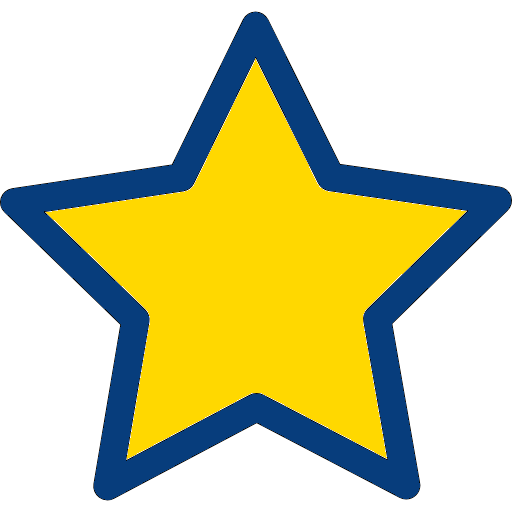
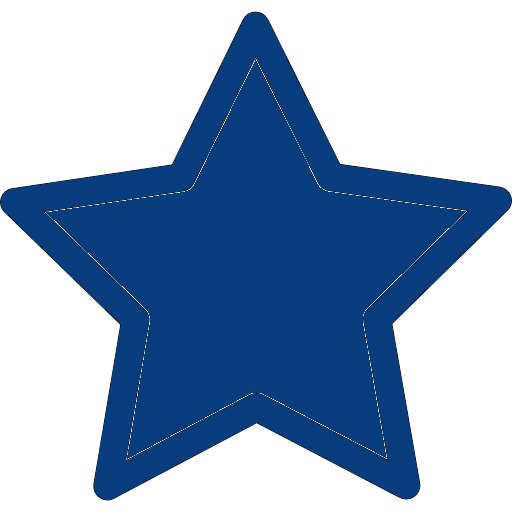
cor da estrela e variavel alteradas em todas as telas finais

Changed region(s): [[0.0938, 0.125, 0.9062, 0.9062]]

diff --git a/src/app/components/levels/two/screen-six-level-two/screen-six-level-two.component.ts b/src/app/components/levels/two/screen-six-level-two/screen-six-level-two.component.ts
@@ -10,8 +10,8 @@ export class ScreenSixLevelTwoComponent implements OnInit {
   resultados: string[] = [];
   acertos: number = 0;
   erros: number = 0;
-  estrelasAmarelas: number = 0;
-  estrelasBrancas: number = 0;
+  estrelasPreenchidas: number = 0;
+  estrelasVazias: number = 0;
   mensagemFinal: string = '';
 
   constructor() { }
@@ -24,33 +24,33 @@ export class ScreenSixLevelTwoComponent implements OnInit {
     this.definirMensagemFinal();
   }
 
-  // Método para calcular as estrelas
+  // Método para calcular as estrelasPreenchidas
   calcularEstrelas(): void {
-    const totalEstrelas = 5; // Total de estrelas a serem exibidas
+    const totalEstrelas = 5; // Total de estrelasPreenchidas a serem exibidas
 
     // Calcula a proporção de acertos e erros
     const proporcaoAcertos = this.acertos / (this.acertos + this.erros);
 
-    // Calcula a quantidade de estrelas amarelas e brancas
-    this.estrelasAmarelas = Math.round(totalEstrelas * proporcaoAcertos);
-    this.estrelasBrancas = totalEstrelas - this.estrelasAmarelas;
+    // Calcula a quantidade de estrelasPreenchidas amarelas e brancas
+    this.estrelasPreenchidas = Math.round(totalEstrelas * proporcaoAcertos);
+    this.estrelasVazias = totalEstrelas - this.estrelasPreenchidas;
   }
 
   definirMensagemFinal(): void {
-    if (this.estrelasAmarelas === 5) {
+    if (this.estrelasPreenchidas === 5) {
       this.mensagemFinal = 'Incrível! Você acertou tudo!';
-    } else if (this.estrelasAmarelas === 4) {
+    } else if (this.estrelasPreenchidas === 4) {
       this.mensagemFinal = 'Muito bom! Quase perfeito!';
-    } else if (this.estrelasAmarelas === 3) {
+    } else if (this.estrelasPreenchidas === 3) {
       this.mensagemFinal = 'Bom trabalho! Continue praticando!';
-    } else if (this.estrelasAmarelas === 2) {
+    } else if (this.estrelasPreenchidas === 2) {
       this.mensagemFinal = 'Você está no caminho certo! Vamos melhorar!';
     } else {
       this.mensagemFinal = 'Tudo é aprendizagem! Tente novamente!';
     }
   }
 
-   // Array de estrelas
+   // Array de estrelasPreenchidas
    getArray(length: number): any[] {
     return new Array(length);
   }

diff --git a/src/app/components/levels/three/screen-eleven-level-three/screen-eleven-level-three.component.ts b/src/app/components/levels/three/screen-eleven-level-three/screen-eleven-level-three.component.ts
@@ -10,8 +10,8 @@ export class ScreenElevenLevelThreeComponent implements OnInit {
   resultados: string[] = [];
   acertos: number = 0;
   erros: number = 0;
-  estrelasAmarelas: number = 0;
-  estrelasBrancas: number = 0;
+  estrelasPreenchidas: number = 0;
+  estrelasVazias: number = 0;
   mensagemFinal: string = '';
 
   constructor() { }
@@ -37,18 +37,18 @@ export class ScreenElevenLevelThreeComponent implements OnInit {
       const proporcaoAcertos = this.acertos / (this.acertos + this.erros);
   
       // Calcula a quantidade de estrelas amarelas e brancas
-      this.estrelasAmarelas = Math.round(totalEstrelas * proporcaoAcertos);
-      this.estrelasBrancas = totalEstrelas - this.estrelasAmarelas;
+      this.estrelasPreenchidas = Math.round(totalEstrelas * proporcaoAcertos);
+      this.estrelasVazias = totalEstrelas - this.estrelasPreenchidas;
     }
   
     definirMensagemFinal(): void {
-      if (this.estrelasAmarelas === 5) {
+      if (this.estrelasPreenchidas === 5) {
         this.mensagemFinal = 'Incrível! Você acertou tudo!';
-      } else if (this.estrelasAmarelas === 4) {
+      } else if (this.estrelasPreenchidas === 4) {
         this.mensagemFinal = 'Muito bom! Quase perfeito!';
-      } else if (this.estrelasAmarelas === 3) {
+      } else if (this.estrelasPreenchidas === 3) {
         this.mensagemFinal = 'Bom trabalho! Continue praticando!';
-      } else if (this.estrelasAmarelas === 2) {
+      } else if (this.estrelasPreenchidas === 2) {
         this.mensagemFinal = 'Você está no caminho certo! Vamos melhorar!';
       } else {
         this.mensagemFinal = 'Tudo é aprendizagem! Tente novamente!';

diff --git a/src/app/components/levels/four/screen-eleven-level-four/screen-eleven-level-four.component.ts b/src/app/components/levels/four/screen-eleven-level-four/screen-eleven-level-four.component.ts
@@ -10,8 +10,8 @@ export class ScreenElevenLevelFourComponent implements OnInit {
   resultados: string[] = [];
   acertos: number = 0;
   erros: number = 0;
-  estrelasAmarelas: number = 0;
-  estrelasBrancas: number = 0;
+  estrelasPreenchidas: number = 0;
+  estrelasVazias: number = 0;
   mensagemFinal: string = '';
 
   constructor() { }
@@ -37,18 +37,18 @@ export class ScreenElevenLevelFourComponent implements OnInit {
       const proporcaoAcertos = this.acertos / (this.acertos + this.erros);
   
       // Calcula a quantidade de estrelas amarelas e brancas
-      this.estrelasAmarelas = Math.round(totalEstrelas * proporcaoAcertos);
-      this.estrelasBrancas = totalEstrelas - this.estrelasAmarelas;
+      this.estrelasPreenchidas = Math.round(totalEstrelas * proporcaoAcertos);
+      this.estrelasVazias = totalEstrelas - this.estrelasPreenchidas;
     }
   
     definirMensagemFinal(): void {
-      if (this.estrelasAmarelas === 5) {
+      if (this.estrelasPreenchidas === 5) {
         this.mensagemFinal = 'Incrível! Você acertou tudo!';
-      } else if (this.estrelasAmarelas === 4) {
+      } else if (this.estrelasPreenchidas === 4) {
         this.mensagemFinal = 'Muito bom! Quase perfeito!';
-      } else if (this.estrelasAmarelas === 3) {
+      } else if (this.estrelasPreenchidas === 3) {
         this.mensagemFinal = 'Bom trabalho! Continue praticando!';
-      } else if (this.estrelasAmarelas === 2) {
+      } else if (this.estrelasPreenchidas === 2) {
         this.mensagemFinal = 'Você está no caminho certo! Vamos melhorar!';
       } else {
         this.mensagemFinal = 'Tudo é aprendizagem! Tente novamente!';

diff --git a/src/app/components/levels/one/screen-thirteen-level-one/screen-thirteen-level-one.component.ts b/src/app/components/levels/one/screen-thirteen-level-one/screen-thirteen-level-one.component.ts
@@ -10,8 +10,8 @@ export class ScreenThirteenLevelOneComponent implements OnInit {
   resultados: string[] = [];
   acertos: number = 0;
   erros: number = 0;
-  estrelasAmarelas: number = 0;
-  estrelasBrancas: number = 0;
+  estrelasPreenchidas: number = 0;
+  estrelasVazias: number = 0;
   mensagemFinal: string = '';
 
   constructor() { }
@@ -32,18 +32,18 @@ export class ScreenThirteenLevelOneComponent implements OnInit {
     const proporcaoAcertos = this.acertos / (this.acertos + this.erros);
 
     // Calcula a quantidade de estrelas amarelas e brancas
-    this.estrelasAmarelas = Math.round(totalEstrelas * proporcaoAcertos);
-    this.estrelasBrancas = totalEstrelas - this.estrelasAmarelas;
+    this.estrelasPreenchidas = Math.round(totalEstrelas * proporcaoAcertos);
+    this.estrelasVazias = totalEstrelas - this.estrelasPreenchidas;
   }
 
   definirMensagemFinal(): void {
-    if (this.estrelasAmarelas === 5) {
+    if (this.estrelasPreenchidas === 5) {
       this.mensagemFinal = 'Incrível! Você acertou tudo!';
-    } else if (this.estrelasAmarelas === 4) {
+    } else if (this.estrelasPreenchidas === 4) {
       this.mensagemFinal = 'Muito bom! Quase perfeito!';
-    } else if (this.estrelasAmarelas === 3) {
+    } else if (this.estrelasPreenchidas === 3) {
       this.mensagemFinal = 'Bom trabalho! Continue praticando!';
-    } else if (this.estrelasAmarelas === 2) {
+    } else if (this.estrelasPreenchidas === 2) {
       this.mensagemFinal = 'Você está no caminho certo! Vamos melhorar!';
     } else {
       this.mensagemFinal = 'Tudo é aprendizagem! Tente novamente!';

diff --git a/src/app/components/levels/four/screen-eleven-level-four/screen-eleven-level-four.component.html b/src/app/components/levels/four/screen-eleven-level-four/screen-eleven-level-four.component.html
@@ -24,12 +24,12 @@
       <div class="stars-container">
 
         <!--  (acertos) -->
-        <div *ngFor="let acerto of getArray(estrelasAmarelas)" class="star">
+        <div *ngFor="let acerto of getArray(estrelasPreenchidas)" class="star">
           <img src="assets/win/estrela.png" alt="Estrela Amarela" class="imagem-estrela">
         </div>
       
         <!--  (erros) -->
-        <div *ngFor="let erro of getArray(estrelasBrancas)" class="star">
+        <div *ngFor="let erro of getArray(estrelasVazias)" class="star">
           <img src="assets/win/estrela-branca.png" alt="Estrela Branca" class="imagem-estrela">
         </div>
       </div>

diff --git a/src/app/components/levels/one/screen-thirteen-level-one/screen-thirteen-level-one.component.html b/src/app/components/levels/one/screen-thirteen-level-one/screen-thirteen-level-one.component.html
@@ -24,12 +24,12 @@
       <div class="stars-container">
 
         <!--  (acertos) -->
-        <div *ngFor="let acerto of getArray(estrelasAmarelas)" class="star">
+        <div *ngFor="let acerto of getArray(estrelasPreenchidas)" class="star">
           <img src="assets/win/estrela.png" alt="Estrela Amarela" class="imagem-estrela">
         </div>
       
         <!--  (erros) -->
-        <div *ngFor="let erro of getArray(estrelasBrancas)" class="star">
+        <div *ngFor="let erro of getArray(estrelasVazias)" class="star">
           <img src="assets/win/estrela-branca.png" alt="Estrela Branca" class="imagem-estrela">
         </div>
       </div>

diff --git a/src/app/components/levels/three/screen-eleven-level-three/screen-eleven-level-three.component.html b/src/app/components/levels/three/screen-eleven-level-three/screen-eleven-level-three.component.html
@@ -24,12 +24,12 @@
       <div class="stars-container">
 
         <!--  (acertos) -->
-        <div *ngFor="let acerto of getArray(estrelasAmarelas)" class="star">
+        <div *ngFor="let acerto of getArray(estrelasPreenchidas)" class="star">
           <img src="assets/win/estrela.png" alt="Estrela Amarela" class="imagem-estrela">
         </div>
       
         <!--  (erros) -->
-        <div *ngFor="let erro of getArray(estrelasBrancas)" class="star">
+        <div *ngFor="let erro of getArray(estrelasVazias)" class="star">
           <img src="assets/win/estrela-branca.png" alt="Estrela Branca" class="imagem-estrela">
         </div>
       </div>

diff --git a/src/app/components/levels/two/screen-six-level-two/screen-six-level-two.component.html b/src/app/components/levels/two/screen-six-level-two/screen-six-level-two.component.html
@@ -24,12 +24,12 @@
       <div class="stars-container">
 
         <!--  (acertos) -->
-        <div *ngFor="let acerto of getArray(estrelasAmarelas)" class="star">
+        <div *ngFor="let acerto of getArray(estrelasPreenchidas)" class="star">
           <img src="assets/win/estrela.png" alt="Estrela Amarela" class="imagem-estrela">
         </div>
       
         <!--  (erros) -->
-        <div *ngFor="let erro of getArray(estrelasBrancas)" class="star">
+        <div *ngFor="let erro of getArray(estrelasVazias)" class="star">
           <img src="assets/win/estrela-branca.png" alt="Estrela Branca" class="imagem-estrela">
         </div>
       </div>
